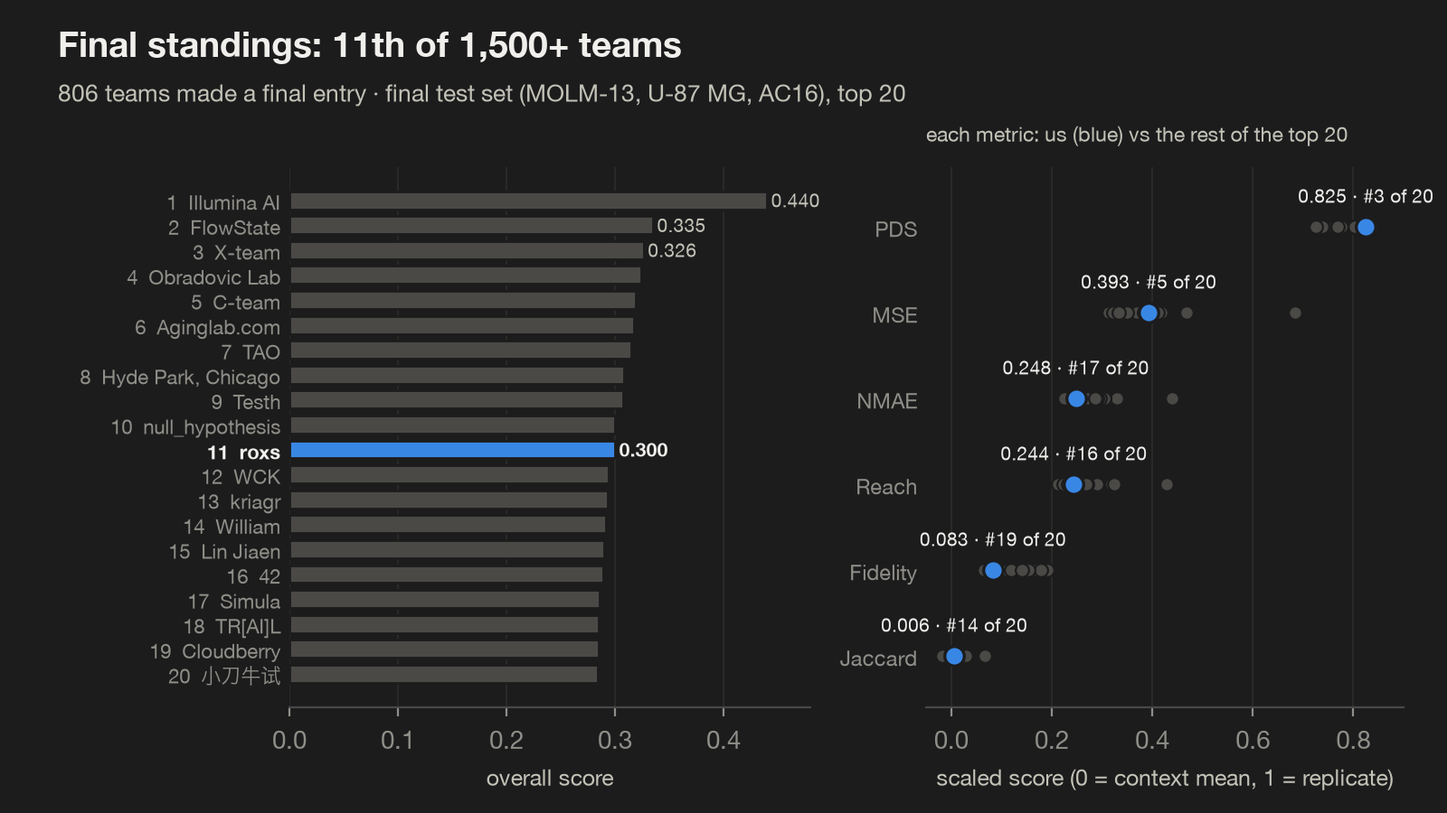
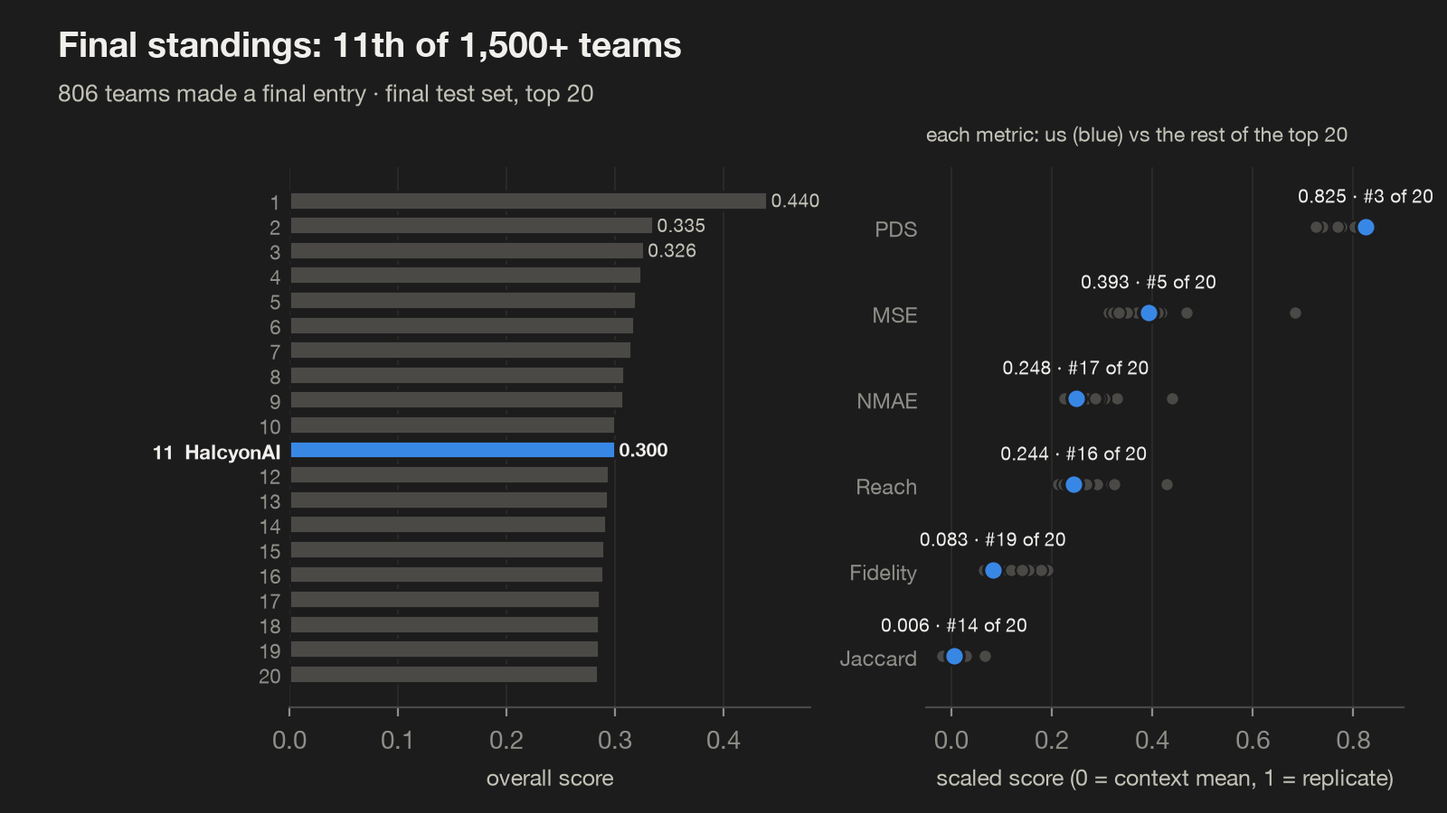
HalcyonAI: updates

Changed region(s): [[0.0625, 0.2489, 0.1875, 0.84], [0.3438, 0.0933, 0.625, 0.1244]]

diff --git a/_projects/virtual-cell-challenge.md b/_projects/virtual-cell-challenge.md
@@ -161,7 +161,7 @@ html[data-theme="dark"] .hx .hx-l{display:none}
 @media (prefers-reduced-motion:reduce){.hx-emb *{animation:none!important}.hx-emb .pulse,.hx-emb .ripple{display:none}}</style><defs><radialGradient id="hx-body" cx=".5" cy=".5" r=".5" fx=".36" fy=".3"><stop offset="0" stop-color="#ffffff"/><stop offset=".38" stop-color="#e4eefc"/><stop offset=".76" stop-color="#b6d1f6"/><stop offset=".93" stop-color="#88b4ee"/><stop offset="1" stop-color="#6098e2"/></radialGradient><radialGradient id="hx-rim" cx=".5" cy=".5" r=".5"><stop offset=".8" stop-color="#2a78d6" stop-opacity="0"/><stop offset=".95" stop-color="#2a78d6" stop-opacity=".22"/><stop offset="1" stop-color="#1b4f8f" stop-opacity=".5"/></radialGradient><radialGradient id="hx-nuc" cx=".5" cy=".5" r=".5" fx=".38" fy=".32"><stop offset="0" stop-color="#9a93f4"/><stop offset=".45" stop-color="#5d52d8"/><stop offset="1" stop-color="#2b2293"/></radialGradient><radialGradient id="hx-nucleolus" cx=".5" cy=".5" r=".5" fx=".4" fy=".35"><stop offset="0" stop-color="#4a3fc4"/><stop offset="1" stop-color="#170f5c"/></radialGradient><linearGradient id="hx-mito" x1="0" y1="0" x2="0" y2="1"><stop offset="0" stop-color="#ffc09e"/><stop offset=".55" stop-color="#f07c4c"/><stop offset="1" stop-color="#c9532a"/></linearGradient><radialGradient id="hx-donor" cx=".5" cy=".5" r=".5" fx=".34" fy=".3"><stop offset="0" stop-color="#e2fcf2"/><stop offset=".38" stop-color="#6fdcb4"/><stop offset=".8" stop-color="#1baf7a"/><stop offset="1" stop-color="#0c7550"/></radialGradient><radialGradient id="hx-halo" cx=".5" cy=".5" r=".5"><stop offset="0" stop-color="#1baf7a" stop-opacity=".5"/><stop offset="1" stop-color="#1baf7a" stop-opacity="0"/></radialGradient><radialGradient id="hx-aura" cx=".5" cy=".5" r=".5"><stop offset=".68" stop-color="#2a78d6" stop-opacity=".28"/><stop offset="1" stop-color="#2a78d6" stop-opacity="0"/></radialGradient><radialGradient id="hx-shadow" cx=".5" cy=".5" r=".5"><stop offset="0" stop-color="#0a1e3c" stop-opacity=".3"/><stop offset="1" stop-color="#0a1e3c" stop-opacity="0"/></radialGradient><radialGradient id="hx-spec" cx=".5" cy=".5" r=".5"><stop offset="0" stop-color="#fff" stop-opacity=".9"/><stop offset="1" stop-color="#fff" stop-opacity="0"/></radialGradient><clipPath id="hx-cellclip"><circle cx="220" cy="300" r="99"/></clipPath><clipPath id="hx-nucclip"><circle cx="236" cy="316" r="38"/></clipPath><linearGradient id="hx-s0" gradientUnits="userSpaceOnUse" x1="220" y1="200" x2="61.4" y2="115.7"><stop offset="0" stop-color="#1d5cb4"/><stop offset=".55" stop-color="#2a78d6"/><stop offset="1" stop-color="#1baf7a"/></linearGradient><linearGradient id="hx-s1" gradientUnits="userSpaceOnUse" x1="220" y1="200" x2="84.9" y2="86.3"><stop offset="0" stop-color="#1d5cb4"/><stop offset=".55" stop-color="#2a78d6"/><stop offset="1" stop-color="#1baf7a"/></linearGradient><linearGradient id="hx-s2" gradientUnits="userSpaceOnUse" x1="220" y1="200" x2="116.9" y2="62.5"><stop offset="0" stop-color="#1d5cb4"/><stop offset=".55" stop-color="#2a78d6"/><stop offset="1" stop-color="#1baf7a"/></linearGradient><linearGradient id="hx-s3" gradientUnits="userSpaceOnUse" x1="220" y1="200" x2="155.4" y2="45.8"><stop offset="0" stop-color="#1d5cb4"/><stop offset=".55" stop-color="#2a78d6"/><stop offset="1" stop-color="#1baf7a"/></linearGradient><linearGradient id="hx-s4" gradientUnits="userSpaceOnUse" x1="220" y1="200" x2="198" y2="37.1"><stop offset="0" stop-color="#1d5cb4"/><stop offset=".55" stop-color="#2a78d6"/><stop offset="1" stop-color="#1baf7a"/></linearGradient><linearGradient id="hx-s5" gradientUnits="userSpaceOnUse" x1="220" y1="200" x2="242" y2="37.1"><stop offset="0" stop-color="#1d5cb4"/><stop offset=".55" stop-color="#2a78d6"/><stop offset="1" stop-color="#1baf7a"/></linearGradient><linearGradient id="hx-s6" gradientUnits="userSpaceOnUse" x1="220" y1="200" x2="284.6" y2="45.8"><stop offset="0" stop-color="#1d5cb4"/><stop offset=".55" stop-color="#2a78d6"/><stop offset="1" stop-color="#1baf7a"/></linearGradient><linearGradient id="hx-s7" gradientUnits="userSpaceOnUse" x1="220" y1="200" x2="323.1" y2="62.5"><stop offset="0" stop-color="#1d5cb4"/><stop offset=".55" stop-color="#2a78d6"/><stop offset="1" stop-color="#1baf7a"/></linearGradient><linearGradient id="hx-s8" gradientUnits="userSpaceOnUse" x1="220" y1="200" x2="355.1" y2="86.3"><stop offset="0" stop-color="#1d5cb4"/><stop offset=".55" stop-color="#2a78d6"/><stop offset="1" stop-color="#1baf7a"/></linearGradient><linearGradient id="hx-s9" gradientUnits="userSpaceOnUse" x1="220" y1="200" x2="378.6" y2="115.7"><stop offset="0" stop-color="#1d5cb4"/><stop offset=".55" stop-color="#2a78d6"/><stop offset="1" stop-color="#1baf7a"/></linearGradient></defs><path class="s-fade" style="--d:0.59s" d="M220 200 C220 138 286.6 126.6 323.1 62.5" fill="none" stroke="url(#hx-s7)" stroke-width="2.5" stroke-linecap="round" stroke-dasharray="1 6" opacity=".45"/><path class="s-fade" style="--d:0.24s" d="M220 200 C220 138 153.4 126.6 116.9 62.5" fill="none" stroke="url(#hx-s2)" stroke-width="2.6" stroke-linecap="round" stroke-dasharray="1 6" opacity=".45"/><path class="s-draw" style="--d:0.73s" pathLength="100" d="M220 200 C220 138 322.4 155.9 378.6 115.7" fill="none" stroke="#2a78d6" stroke-opacity=".14" stroke-width="10.3" stroke-linecap="round"/><path class="s-draw" style="--d:0.73s" pathLength="100" d="M220 200 C220 138 322.4 155.9 378.6 115.7" fill="none" stroke="url(#hx-s9)" stroke-width="3.3" stroke-linecap="round"/><path class="s-draw" style="--d:0.73s" pathLength="100" d="M220 200 C220 138 322.4 155.9 378.6 115.7" fill="none" stroke="#fff" stroke-opacity=".38" stroke-width="0.9" stroke-linecap="round" transform="translate(-0.7 -0.7)"/><path class="pulse" style="--t:3.20s;--p:5.23s;--so:37" pathLength="100" d="M220 200 C220 138 322.4 155.9 378.6 115.7" fill="none" stroke="#bff5e1" stroke-opacity=".35" stroke-width="9.3" stroke-linecap="round"/><path class="pulse" style="--t:3.20s;--p:5.23s;--so:37" pathLength="100" d="M220 200 C220 138 322.4 155.9 378.6 115.7" fill="none" stroke="#fff" stroke-width="3.5" stroke-linecap="round"/><path class="s-draw" style="--d:0.10s" pathLength="100" d="M220 200 C220 138 117.6 155.9 61.4 115.7" fill="none" stroke="#2a78d6" stroke-opacity=".14" stroke-width="10.5" stroke-linecap="round"/><path class="s-draw" style="--d:0.10s" pathLength="100" d="M220 200 C220 138 117.6 155.9 61.4 115.7" fill="none" stroke="url(#hx-s0)" stroke-width="3.5" stroke-linecap="round"/><path class="s-draw" style="--d:0.10s" pathLength="100" d="M220 200 C220 138 117.6 155.9 61.4 115.7" fill="none" stroke="#fff" stroke-opacity=".38" stroke-width="1" stroke-linecap="round" transform="translate(-0.7 -0.7)"/><path class="pulse" style="--t:3.12s;--p:1.90s;--so:30" pathLength="100" d="M220 200 C220 138 117.6 155.9 61.4 115.7" fill="none" stroke="#bff5e1" stroke-opacity=".35" stroke-width="9.5" stroke-linecap="round"/><path class="pulse" style="--t:3.12s;--p:1.90s;--so:30" pathLength="100" d="M220 200 C220 138 117.6 155.9 61.4 115.7" fill="none" stroke="#fff" stroke-width="3.6" stroke-linecap="round"/><path class="s-draw" style="--d:0.52s" pathLength="100" d="M220 200 C220 138 261.7 117.4 284.6 45.8" fill="none" stroke="#2a78d6" stroke-opacity=".14" stroke-width="10.6" stroke-linecap="round"/><path class="s-draw" style="--d:0.52s" pathLength="100" d="M220 200 C220 138 261.7 117.4 284.6 45.8" fill="none" stroke="url(#hx-s6)" stroke-width="3.6" stroke-linecap="round"/><path class="s-draw" style="--d:0.52s" pathLength="100" d="M220 200 C220 138 261.7 117.4 284.6 45.8" fill="none" stroke="#fff" stroke-opacity=".38" stroke-width="1" stroke-linecap="round" transform="translate(-0.7 -0.7)"/><path class="pulse" style="--t:3.04s;--p:4.12s;--so:68" pathLength="100" d="M220 200 C220 138 261.7 117.4 284.6 45.8" fill="none" stroke="#bff5e1" stroke-opacity=".35" stroke-width="9.6" stroke-linecap="round"/><path class="pulse" style="--t:3.04s;--p:4.12s;--so:68" pathLength="100" d="M220 200 C220 138 261.7 117.4 284.6 45.8" fill="none" stroke="#fff" stroke-width="3.7" stroke-linecap="round"/><path class="s-draw" style="--d:0.38s" pathLength="100" d="M220 200 C220 138 205.8 112.6 198 37.1" fill="none" stroke="#2a78d6" stroke-opacity=".14" stroke-width="11" stroke-linecap="round"/><path class="s-draw" style="--d:0.38s" pathLength="100" d="M220 200 C220 138 205.8 112.6 198 37.1" fill="none" stroke="url(#hx-s4)" stroke-width="4" stroke-linecap="round"/><path class="s-draw" style="--d:0.38s" pathLength="100" d="M220 200 C220 138 205.8 112.6 198 37.1" fill="none" stroke="#fff" stroke-opacity=".38" stroke-width="1.1" stroke-linecap="round" transform="translate(-0.7 -0.7)"/><path class="pulse" style="--t:3.03s;--p:3.38s;--so:72" pathLength="100" d="M220 200 C220 138 205.8 112.6 198 37.1" fill="none" stroke="#bff5e1" stroke-opacity=".35" stroke-width="10" stroke-linecap="round"/><path class="pulse" style="--t:3.03s;--p:3.38s;--so:72" pathLength="100" d="M220 200 C220 138 205.8 112.6 198 37.1" fill="none" stroke="#fff" stroke-width="4" stroke-linecap="round"/><path class="s-draw" style="--d:0.66s" pathLength="100" d="M220 200 C220 138 307.3 139.7 355.1 86.3" fill="none" stroke="#2a78d6" stroke-opacity=".14" stroke-width="11.3" stroke-linecap="round"/><path class="s-draw" style="--d:0.66s" pathLength="100" d="M220 200 C220 138 307.3 139.7 355.1 86.3" fill="none" stroke="url(#hx-s8)" stroke-width="4.3" stroke-linecap="round"/><path class="s-draw" style="--d:0.66s" pathLength="100" d="M220 200 C220 138 307.3 139.7 355.1 86.3" fill="none" stroke="#fff" stroke-opacity=".38" stroke-width="1.2" stroke-linecap="round" transform="translate(-0.7 -0.7)"/><path class="pulse" style="--t:3.02s;--p:4.86s;--so:64" pathLength="100" d="M220 200 C220 138 307.3 139.7 355.1 86.3" fill="none" stroke="#bff5e1" stroke-opacity=".35" stroke-width="10.3" stroke-linecap="round"/><path class="pulse" style="--t:3.02s;--p:4.86s;--so:64" pathLength="100" d="M220 200 C220 138 307.3 139.7 355.1 86.3" fill="none" stroke="#fff" stroke-width="4.2" stroke-linecap="round"/><path class="s-draw" style="--d:0.17s" pathLength="100" d="M220 200 C220 138 132.7 139.7 84.9 86.3" fill="none" stroke="#2a78d6" stroke-opacity=".14" stroke-width="11.5" stroke-linecap="round"/><path class="s-draw" style="--d:0.17s" pathLength="100" d="M220 200 C220 138 132.7 139.7 84.9 86.3" fill="none" stroke="url(#hx-s1)" stroke-width="4.5" stroke-linecap="round"/><path class="s-draw" style="--d:0.17s" pathLength="100" d="M220 200 C220 138 132.7 139.7 84.9 86.3" fill="none" stroke="#fff" stroke-opacity=".38" stroke-width="1.3" stroke-linecap="round" transform="translate(-0.7 -0.7)"/><path class="pulse" style="--t:2.79s;--p:2.27s;--so:53" pathLength="100" d="M220 200 C220 138 132.7 139.7 84.9 86.3" fill="none" stroke="#bff5e1" stroke-opacity=".35" stroke-width="10.5" stroke-linecap="round"/><path class="pulse" style="--t:2.79s;--p:2.27s;--so:53" pathLength="100" d="M220 200 C220 138 132.7 139.7 84.9 86.3" fill="none" stroke="#fff" stroke-width="4.4" stroke-linecap="round"/><path class="s-draw" style="--d:0.45s" pathLength="100" d="M220 200 C220 138 234.2 112.6 242 37.1" fill="none" stroke="#2a78d6" stroke-opacity=".14" stroke-width="11.8" stroke-linecap="round"/><path class="s-draw" style="--d:0.45s" pathLength="100" d="M220 200 C220 138 234.2 112.6 242 37.1" fill="none" stroke="url(#hx-s5)" stroke-width="4.8" stroke-linecap="round"/><path class="s-draw" style="--d:0.45s" pathLength="100" d="M220 200 C220 138 234.2 112.6 242 37.1" fill="none" stroke="#fff" stroke-opacity=".38" stroke-width="1.4" stroke-linecap="round" transform="translate(-0.7 -0.7)"/><path class="pulse" style="--t:2.78s;--p:3.75s;--so:45" pathLength="100" d="M220 200 C220 138 234.2 112.6 242 37.1" fill="none" stroke="#bff5e1" stroke-opacity=".35" stroke-width="10.8" stroke-linecap="round"/><path class="pulse" style="--t:2.78s;--p:3.75s;--so:45" pathLength="100" d="M220 200 C220 138 234.2 112.6 242 37.1" fill="none" stroke="#fff" stroke-width="4.6" stroke-linecap="round"/><path class="s-draw" style="--d:0.31s" pathLength="100" d="M220 200 C220 138 178.3 117.4 155.4 45.8" fill="none" stroke="#2a78d6" stroke-opacity=".14" stroke-width="12" stroke-linecap="round"/><path class="s-draw" style="--d:0.31s" pathLength="100" d="M220 200 C220 138 178.3 117.4 155.4 45.8" fill="none" stroke="url(#hx-s3)" stroke-width="5" stroke-linecap="round"/><path class="s-draw" style="--d:0.31s" pathLength="100" d="M220 200 C220 138 178.3 117.4 155.4 45.8" fill="none" stroke="#fff" stroke-opacity=".38" stroke-width="1.4" stroke-linecap="round" transform="translate(-0.7 -0.7)"/><path class="pulse" style="--t:2.40s;--p:3.01s;--so:49" pathLength="100" d="M220 200 C220 138 178.3 117.4 155.4 45.8" fill="none" stroke="#bff5e1" stroke-opacity=".35" stroke-width="11" stroke-linecap="round"/><path class="pulse" style="--t:2.40s;--p:3.01s;--so:49" pathLength="100" d="M220 200 C220 138 178.3 117.4 155.4 45.8" fill="none" stroke="#fff" stroke-width="4.8" stroke-linecap="round"/><ellipse cx="220" cy="414" rx="92" ry="11" fill="url(#hx-shadow)"/><circle class="aura" cx="220" cy="300" r="134" fill="url(#hx-aura)"/><g class="cellin"><circle cx="220" cy="300" r="100" fill="url(#hx-body)"/><g clip-path="url(#hx-cellclip)"><g fill="#2a5fb0" opacity=".32"><circle cx="304.8" cy="293.1" r="1.2"/><circle cx="237.5" cy="236.9" r="1.2"/><circle cx="138.8" cy="260.7" r="0.9"/><circle cx="281.9" cy="338.7" r="0.8"/><circle cx="225.7" cy="211.9" r="1.0"/><circle cx="288.5" cy="303.8" r="1.3"/><circle cx="211.5" cy="255.6" r="1.6"/><circle cx="261.6" cy="263.1" r="1.0"/><circle cx="273.3" cy="280.1" r="1.5"/><circle cx="199.5" cy="214.6" r="1.3"/><circle cx="275.7" cy="254" r="0.9"/><circle cx="155.5" cy="311.9" r="1.2"/><circle cx="158.1" cy="346.4" r="0.9"/><circle cx="248.7" cy="223.3" r="1.1"/><circle cx="162.6" cy="254" r="1.6"/><circle cx="280.7" cy="260.8" r="1.5"/><circle cx="162.1" cy="278.9" r="1.5"/><circle cx="248.4" cy="220.1" r="1.6"/><circle cx="162.6" cy="251.7" r="1.4"/><circle cx="185.8" cy="259.3" r="0.9"/><circle cx="138" cy="316.5" r="1.0"/><circle cx="283.6" cy="249.9" r="1.0"/><circle cx="296.4" cy="320.7" r="1.1"/><circle cx="260.9" cy="251.4" r="1.5"/><circle cx="239.3" cy="258.7" r="0.9"/><circle cx="165.7" cy="311.9" r="1.5"/><circle cx="242.9" cy="256" r="1.5"/><circle cx="173.8" cy="289.1" r="0.8"/><circle cx="155.3" cy="273.8" r="1.3"/><circle cx="146.3" cy="272.4" r="1.5"/><circle cx="135.1" cy="309.2" r="1.4"/><circle cx="260.7" cy="358.7" r="1.5"/><circle cx="190.4" cy="337" r="1.5"/><circle cx="294.2" cy="283.4" r="1.4"/><circle cx="292.7" cy="314.6" r="1.3"/><circle cx="241.8" cy="216" r="1.3"/><circle cx="265.6" cy="277.7" r="1.4"/><circle cx="166" cy="339.7" r="1.2"/><circle cx="242.9" cy="384.1" r="1.0"/><circle cx="255.6" cy="240.5" r="0.9"/><circle cx="301.1" cy="332" r="1.2"/><circle cx="298.3" cy="265.4" r="1.3"/><circle cx="159.7" cy="286.2" r="1.4"/><circle cx="183.3" cy="227.2" r="1.2"/><circle cx="175.4" cy="233.8" r="1.2"/><circle cx="175" cy="242.8" r="1.1"/><circle cx="183.1" cy="367.8" r="1.6"/><circle cx="210.5" cy="214.9" r="0.8"/><circle cx="181.8" cy="358.3" r="0.8"/><circle cx="147.2" cy="291" r="0.8"/><circle cx="285.9" cy="247.5" r="0.9"/><circle cx="251" cy="361.5" r="1.6"/><circle cx="256.9" cy="239.9" r="1.2"/><circle cx="155.8" cy="254.5" r="1.1"/><circle cx="198.7" cy="358.4" r="1.5"/><circle cx="264.5" cy="226" r="1.2"/><circle cx="245.1" cy="382" r="1.1"/><circle cx="233.8" cy="375.9" r="1.4"/><circle cx="308.9" cy="292.7" r="1.3"/><circle cx="161" cy="344.4" r="1.5"/><circle cx="184.1" cy="382" r="1.5"/><circle cx="189.7" cy="216.6" r="1.2"/><circle cx="280" cy="234.6" r="1.1"/><circle cx="149.7" cy="303.3" r="1.4"/><circle cx="288" cy="337.9" r="1.6"/><circle cx="218.5" cy="389.8" r="0.9"/><circle cx="164.3" cy="305.3" r="1.0"/><circle cx="224.6" cy="368.7" r="1.2"/><circle cx="182.3" cy="276.2" r="1.5"/><circle cx="160.2" cy="307.2" r="1.2"/></g><line x1="140.3" y1="332.2" x2="299.7" y2="267.8" stroke="#1b4f8f" stroke-opacity=".28" stroke-width="1.4" stroke-dasharray="3 5" stroke-linecap="round"/><line x1="252.2" y1="379.7" x2="187.8" y2="220.3" stroke="#1b4f8f" stroke-opacity=".28" stroke-width="1.4" stroke-dasharray="3 5" stroke-linecap="round"/><g class="drift"><path d="M193.6 291.5 L190.5 293.6 L188.8 296.4 L188.7 299.9 L189.6 303.6 L190.1 306.9 L189.1 309.8 L187.1 312.8 L185.3 316 L185 319.3 L186.5 322.5 L188.9 325.4 L190.8 328.1 L191.2 331.2 L190.7 334.8 L190.5 338.5 L191.7 341.6 L194.5 343.7 L198 345.2 L200.8 346.9 L202.5 349.5 L203.6 352.9 L205.1 356.3 L207.6 358.5 L211.1 359.2 L214.8 359 L218.1 359.3 L220.8 360.9 L223.3 363.5 L226.1 365.8 L229.3 366.7 L232.7 365.7 L236 363.9 L239.1 362.7 L242.2 363 L245.6 364.2 L249.2 365.1 L252.4 364.4 L255 362 L257.2 358.9 L259.4 356.5" fill="none" stroke="#5b8fe0" stroke-opacity=".5" stroke-width="1.6" stroke-linecap="round"/><path d="M185.7 286.9 L184.2 290.4 L184.2 294.5 L184.5 298.5 L184 302.1 L182.1 305.3 L179.6 308.6 L178 312.2 L178.2 316 L180.1 319.7 L182.2 323.1 L183.2 326.5 L182.9 330.2 L182.1 334.3 L182.3 338.2 L184.2 341.5 L187.5 344 L190.9 346.2 L193.3 348.8 L194.6 352.3 L195.7 356.3 L197.7 359.7 L200.9 361.8 L204.9 362.5 L208.9 363 L212.2 364.3 L214.9 366.9 L217.7 370 L220.9 372.2 L224.7 372.6 L228.7 371.5 L232.5 370.1 L236 369.9 L239.6 371 L243.4 372.5 L247.3 373 L250.9 371.7 L254 368.9 L256.7 366.1 L259.8 364.3 L263.6 363.8" fill="none" stroke="#5b8fe0" stroke-opacity=".5" stroke-width="1.6" stroke-linecap="round"/><path d="M179.8 283.6 L179.2 288 L179.2 292.5 L178.4 296.5 L176.3 300 L173.5 303.6 L171.5 307.5 L171.3 311.8 L172.7 316 L174.7 320 L175.7 323.9 L175.4 328.1 L174.5 332.5 L174.4 336.9 L176.1 340.8 L179.3 344 L182.8 346.7 L185.4 349.8 L186.9 353.7 L188.1 358 L190 362 L193.2 364.7 L197.5 366.1 L201.9 367.1 L205.6 368.7 L208.6 371.5 L211.6 374.9 L215.1 377.6 L219.2 378.6 L223.7 377.9 L228 376.9 L232 376.7 L236 377.9 L240.2 379.7 L244.5 380.6 L248.6 379.6 L252.3 377 L255.7 374.1 L259.3 372.2 L263.4 371.6 L267.9 371.3" fill="none" stroke="#5b8fe0" stroke-opacity=".5" stroke-width="1.6" stroke-linecap="round"/><path d="M157 342 q15 -11 30 0" fill="none" stroke="#6250d6" stroke-opacity=".62" stroke-width="3" stroke-linecap="round" transform="rotate(-28 172 342)"/><path d="M159 348 q13 -11 26 0" fill="none" stroke="#6250d6" stroke-opacity=".62" stroke-width="3" stroke-linecap="round" transform="rotate(-28 172 342)"/><path d="M161 354 q11 -11 22 0" fill="none" stroke="#6250d6" stroke-opacity=".62" stroke-width="3" stroke-linecap="round" transform="rotate(-28 172 342)"/><path d="M163 360 q9 -11 18 0" fill="none" stroke="#6250d6" stroke-opacity=".62" stroke-width="3" stroke-linecap="round" transform="rotate(-28 172 342)"/><circle cx="196" cy="352" r="2.6" fill="#8d86f0" fill-opacity=".7"/><circle cx="154" cy="330" r="2.2" fill="#8d86f0" fill-opacity=".7"/><circle cx="190" cy="366" r="1.8" fill="#8d86f0" fill-opacity=".7"/><g transform="rotate(35 170 268)"><rect x="156" y="262" width="28" height="12" rx="6" fill="url(#hx-mito)" stroke="#b4461f" stroke-opacity=".55" stroke-width="1"/><path d="M160 268 l3.5 -3 l3.5 3 l3.5 -3 l3.5 3 l3.5 -3" fill="none" stroke="#fff" stroke-opacity=".7" stroke-width="1.1" stroke-linejoin="round"/></g><g transform="rotate(-30 278 256)"><rect x="265" y="250" width="26" height="12" rx="6" fill="url(#hx-mito)" stroke="#b4461f" stroke-opacity=".55" stroke-width="1"/><path d="M269 256 l3.2 -3 l3.2 3 l3.2 -3 l3.2 3 l3.2 -3" fill="none" stroke="#fff" stroke-opacity=".7" stroke-width="1.1" stroke-linejoin="round"/></g><g transform="rotate(8 206 378)"><rect x="194" y="372" width="24" height="12" rx="6" fill="url(#hx-mito)" stroke="#b4461f" stroke-opacity=".55" stroke-width="1"/><path d="M198 378 l3 -3 l3 3 l3 -3 l3 3 l3 -3" fill="none" stroke="#fff" stroke-opacity=".7" stroke-width="1.1" stroke-linejoin="round"/></g><g transform="rotate(-42 272 366)"><rect x="261" y="360" width="22" height="12" rx="6" fill="url(#hx-mito)" stroke="#b4461f" stroke-opacity=".55" stroke-width="1"/><path d="M265 366 l2.8 -3 l2.8 3 l2.8 -3 l2.8 3 l2.8 -3" fill="none" stroke="#fff" stroke-opacity=".7" stroke-width="1.1" stroke-linejoin="round"/></g><g transform="rotate(82 148 304)"><rect x="137" y="298" width="22" height="12" rx="6" fill="url(#hx-mito)" stroke="#b4461f" stroke-opacity=".55" stroke-width="1"/><path d="M141 304 l2.8 -3 l2.8 3 l2.8 -3 l2.8 3 l2.8 -3" fill="none" stroke="#fff" stroke-opacity=".7" stroke-width="1.1" stroke-linejoin="round"/></g><circle cx="262" cy="228" r="5" fill="#eef5ff" stroke="#4f86d8" stroke-opacity=".7" stroke-width="1.2"/><circle cx="184" cy="238" r="4" fill="#eef5ff" stroke="#4f86d8" stroke-opacity=".7" stroke-width="1.2"/><circle cx="300" cy="300" r="4.5" fill="#eef5ff" stroke="#4f86d8" stroke-opacity=".7" stroke-width="1.2"/><circle cx="160" cy="370" r="3.5" fill="#eef5ff" stroke="#4f86d8" stroke-opacity=".7" stroke-width="1.2"/><circle cx="246" cy="384" r="3.8" fill="#eef5ff" stroke="#4f86d8" stroke-opacity=".7" stroke-width="1.2"/><circle cx="296" cy="336" r="3" fill="#eef5ff" stroke="#4f86d8" stroke-opacity=".7" stroke-width="1.2"/><circle cx="236" cy="316" r="40" fill="#1b4f8f" fill-opacity=".12"/><circle cx="236" cy="316" r="38" fill="url(#hx-nuc)"/><g clip-path="url(#hx-nucclip)" fill="#1c1470" opacity=".28"><circle cx="231.3" cy="312.3" r="5.4"/><circle cx="213.3" cy="313.7" r="4.8"/><circle cx="212.7" cy="306.3" r="4.4"/><circle cx="260.2" cy="326.6" r="3.4"/><circle cx="269.4" cy="306.7" r="2.9"/><circle cx="223.3" cy="318.2" r="3.5"/><circle cx="249.7" cy="284.7" r="3.7"/><circle cx="229.5" cy="330.4" r="4.2"/><circle cx="247.6" cy="310.1" r="4.7"/><circle cx="251.7" cy="318.3" r="2.8"/><circle cx="228.1" cy="297.1" r="3.2"/><circle cx="227.5" cy="308" r="4.6"/><circle cx="254.5" cy="334" r="2.9"/><circle cx="244.5" cy="340.9" r="3.5"/><circle cx="219.5" cy="332.3" r="3.9"/><circle cx="244.8" cy="329.7" r="4.2"/><circle cx="219.1" cy="295.9" r="5.0"/><circle cx="210.5" cy="294.5" r="2.8"/><circle cx="234.1" cy="283.6" r="5.2"/><circle cx="227.9" cy="334.5" r="5.2"/><circle cx="243.2" cy="351.3" r="5.1"/><circle cx="247.8" cy="329.2" r="4.5"/><circle cx="235.3" cy="327.2" r="4.9"/><circle cx="207.8" cy="331.1" r="2.4"/><circle cx="211.6" cy="333.1" r="2.1"/><circle cx="245" cy="344.4" r="5.2"/></g><circle cx="245" cy="324" r="11" fill="url(#hx-nucleolus)"/><circle cx="225" cy="309" r="4.5" fill="url(#hx-nucleolus)" opacity=".8"/><circle cx="236" cy="316" r="38" fill="none" stroke="#231a86" stroke-width="2.2" stroke-dasharray="9 2.4"/><ellipse cx="223" cy="299" rx="13" ry="7" fill="url(#hx-spec)" opacity=".55" transform="rotate(-30 223 299)"/></g></g><circle cx="220" cy="300" r="100" fill="url(#hx-rim)"/><circle cx="220" cy="300" r="95.5" fill="none" stroke="#2a78d6" stroke-opacity=".42" stroke-width="1.2"/><circle cx="220" cy="300" r="100" fill="none" stroke="#2a78d6" stroke-width="2.6"/><g fill="#6250d6" fill-opacity=".8"><ellipse cx="189.9" cy="206.7" rx="2" ry="3.6" transform="rotate(-17.9 189.9 206.7)"/><ellipse cx="150.6" cy="230.8" rx="2" ry="3.6" transform="rotate(-45.1 150.6 230.8)"/><ellipse cx="127.6" cy="267.4" rx="2" ry="3.6" transform="rotate(-70.6 127.6 267.4)"/><ellipse cx="122" cy="300.1" rx="2" ry="3.6" transform="rotate(-90 122 300.1)"/><ellipse cx="131" cy="341" rx="2" ry="3.6" transform="rotate(-114.7 131 341)"/><ellipse cx="146.3" cy="364.6" rx="2" ry="3.6" transform="rotate(-131.3 146.3 364.6)"/><ellipse cx="174.5" cy="386.8" rx="2" ry="3.6" transform="rotate(-152.3 174.5 386.8)"/><ellipse cx="211.9" cy="397.7" rx="2" ry="3.6" transform="rotate(-175.3 211.9 397.7)"/><ellipse cx="248.6" cy="393.7" rx="2" ry="3.6" transform="rotate(-196.9 248.6 393.7)"/><ellipse cx="290" cy="368.5" rx="2" ry="3.6" transform="rotate(-225.6 290 368.5)"/><ellipse cx="310.7" cy="337.2" rx="2" ry="3.6" transform="rotate(-247.7 310.7 337.2)"/><ellipse cx="318" cy="298.6" rx="2" ry="3.6" transform="rotate(-270.8 318 298.6)"/><ellipse cx="313.1" cy="269.3" rx="2" ry="3.6" transform="rotate(-288.3 313.1 269.3)"/><ellipse cx="293.7" cy="235.4" rx="2" ry="3.6" transform="rotate(-311.2 293.7 235.4)"/><ellipse cx="263" cy="212" rx="2" ry="3.6" transform="rotate(-333.9 263 212)"/></g><ellipse cx="186" cy="254" rx="36" ry="20" fill="url(#hx-spec)" opacity=".75" transform="rotate(-32 186 254)"/></g><circle class="ripple" cx="220" cy="200" r="7" fill="none" stroke="#1baf7a" stroke-width="2"/><circle cx="220" cy="200" r="7.5" fill="#1b4f8f" stroke="#fff" stroke-width="2.4"/><circle cx="218" cy="198" r="2.2" fill="#fff" fill-opacity=".7"/><g class="donor" style="--d:0.10s"><circle class="halo" style="--h:0.0s" cx="61.4" cy="115.7" r="23.2" fill="url(#hx-halo)"/><circle cx="61.4" cy="115.7" r="11.9" fill="url(#hx-donor)" stroke="#0c7550" stroke-opacity=".6" stroke-width="1"/><circle cx="63.5" cy="117.3" r="4.8" fill="#0b6345" fill-opacity=".55"/><ellipse cx="57.6" cy="111.4" rx="4.3" ry="2.6" fill="#fff" fill-opacity=".75" transform="rotate(-35 57.6 111.4)"/></g><g class="donor" style="--d:0.17s"><circle class="halo" style="--h:0.3s" cx="84.9" cy="86.3" r="27.9" fill="url(#hx-halo)"/><circle cx="84.9" cy="86.3" r="14.3" fill="url(#hx-donor)" stroke="#0c7550" stroke-opacity=".6" stroke-width="1"/><circle cx="87.4" cy="88.3" r="5.7" fill="#0b6345" fill-opacity=".55"/><ellipse cx="80.3" cy="81.2" rx="5.1" ry="3.1" fill="#fff" fill-opacity=".75" transform="rotate(-35 80.3 81.2)"/></g><g class="donor" style="--d:0.24s" opacity=".45"><circle cx="116.9" cy="62.5" r="9.9" fill="url(#hx-donor)" stroke="#0c7550" stroke-opacity=".6" stroke-width="1"/><circle cx="118.6" cy="63.9" r="4" fill="#0b6345" fill-opacity=".55"/><ellipse cx="113.7" cy="58.9" rx="3.6" ry="2.2" fill="#fff" fill-opacity=".75" transform="rotate(-35 113.7 58.9)"/></g><g class="donor" style="--d:0.31s"><circle class="halo" style="--h:0.9s" cx="155.4" cy="45.8" r="30.2" fill="url(#hx-halo)"/><circle cx="155.4" cy="45.8" r="15.5" fill="url(#hx-donor)" stroke="#0c7550" stroke-opacity=".6" stroke-width="1"/><circle cx="158.2" cy="47.9" r="6.2" fill="#0b6345" fill-opacity=".55"/><ellipse cx="150.4" cy="40.2" rx="5.6" ry="3.4" fill="#fff" fill-opacity=".75" transform="rotate(-35 150.4 40.2)"/></g><g class="donor" style="--d:0.38s"><circle class="halo" style="--h:1.2s" cx="198" cy="37.1" r="25.5" fill="url(#hx-halo)"/><circle cx="198" cy="37.1" r="13.1" fill="url(#hx-donor)" stroke="#0c7550" stroke-opacity=".6" stroke-width="1"/><circle cx="200.4" cy="38.9" r="5.2" fill="#0b6345" fill-opacity=".55"/><ellipse cx="193.8" cy="32.4" rx="4.7" ry="2.9" fill="#fff" fill-opacity=".75" transform="rotate(-35 193.8 32.4)"/></g><g class="donor" style="--d:0.45s"><circle class="halo" style="--h:1.5s" cx="242" cy="37.1" r="29.4" fill="url(#hx-halo)"/><circle cx="242" cy="37.1" r="15.1" fill="url(#hx-donor)" stroke="#0c7550" stroke-opacity=".6" stroke-width="1"/><circle cx="244.7" cy="39.2" r="6" fill="#0b6345" fill-opacity=".55"/><ellipse cx="237.2" cy="31.7" rx="5.4" ry="3.3" fill="#fff" fill-opacity=".75" transform="rotate(-35 237.2 31.7)"/></g><g class="donor" style="--d:0.52s"><circle class="halo" style="--h:1.8s" cx="284.6" cy="45.8" r="24" fill="url(#hx-halo)"/><circle cx="284.6" cy="45.8" r="12.3" fill="url(#hx-donor)" stroke="#0c7550" stroke-opacity=".6" stroke-width="1"/><circle cx="286.8" cy="47.5" r="4.9" fill="#0b6345" fill-opacity=".55"/><ellipse cx="280.7" cy="41.3" rx="4.4" ry="2.7" fill="#fff" fill-opacity=".75" transform="rotate(-35 280.7 41.3)"/></g><g class="donor" style="--d:0.59s" opacity=".45"><circle cx="323.1" cy="62.5" r="9.5" fill="url(#hx-donor)" stroke="#0c7550" stroke-opacity=".6" stroke-width="1"/><circle cx="324.8" cy="63.8" r="3.8" fill="#0b6345" fill-opacity=".55"/><ellipse cx="320.1" cy="59.1" rx="3.4" ry="2.1" fill="#fff" fill-opacity=".75" transform="rotate(-35 320.1 59.1)"/></g><g class="donor" style="--d:0.66s"><circle class="halo" style="--h:2.4s" cx="355.1" cy="86.3" r="27.1" fill="url(#hx-halo)"/><circle cx="355.1" cy="86.3" r="13.9" fill="url(#hx-donor)" stroke="#0c7550" stroke-opacity=".6" stroke-width="1"/><circle cx="357.6" cy="88.3" r="5.6" fill="#0b6345" fill-opacity=".55"/><ellipse cx="350.7" cy="81.3" rx="5" ry="3.1" fill="#fff" fill-opacity=".75" transform="rotate(-35 350.7 81.3)"/></g><g class="donor" style="--d:0.73s"><circle class="halo" style="--h:2.7s" cx="378.6" cy="115.7" r="22.4" fill="url(#hx-halo)"/><circle cx="378.6" cy="115.7" r="11.5" fill="url(#hx-donor)" stroke="#0c7550" stroke-opacity=".6" stroke-width="1"/><circle cx="380.7" cy="117.3" r="4.6" fill="#0b6345" fill-opacity=".55"/><ellipse cx="374.9" cy="111.5" rx="4.1" ry="2.5" fill="#fff" fill-opacity=".75" transform="rotate(-35 374.9 111.5)"/></g></svg></div>
 <div class="hx-hero-txt"><p class="hx-eyebrow">Virtual Cell Challenge 2026</p><h1 class="hx-title">HalcyonAI</h1><p class="hx-tagline">Zero-shot prediction of CRISPRi knockdown responses in unseen cell lines</p><p class="hx-badge"><span class="ping" aria-hidden="true"></span>11th of 1,500+ teams</p></div></header>
 <nav class="hx-toc" aria-label="On this page"><a class="hx-chip" href="#task">The task</a><a class="hx-chip" href="#journey">How I got there</a><a class="hx-chip" href="#method">How it works</a><a class="hx-chip" href="#agents">Human + agents</a><a class="hx-chip" href="#lessons">What I learned</a><a class="hx-chip" href="#linkedin">LinkedIn</a></nav>
-<div class="hx-stats stagger"><div class="hx-stat" style="--c:var(--b)"><b data-from="1500" data-to="11" data-suf="ord">11th</b><span>of 1,500+ teams worldwide</span></div><div class="hx-stat" style="--c:var(--a)"><b data-to="0.300" data-dec="3">0.300</b><span>final score on three unseen cell lines</span></div><div class="hx-stat" style="--c:var(--v)"><b>Top 3</b><span>perturbation discrimination (PDS 0.825)</span></div><div class="hx-stat" style="--c:var(--o)"><b data-from="141" data-to="4" data-suf="ord">4th</b><span>validation rank, up from 141st in 9 days</span></div></div>
+<div class="hx-stats stagger"><div class="hx-stat" style="--c:var(--b)"><b data-from="1500" data-to="11" data-suf="ord">11th</b><span>of 1,500+ teams worldwide</span></div><div class="hx-stat" style="--c:var(--a)"><b data-to="0.300" data-dec="3">0.300</b><span>final score on three unseen cell lines</span></div><div class="hx-stat" style="--c:var(--v)"><b>Top 3</b><span>perturbation discrimination (PDS 0.825)</span></div><div class="hx-stat" style="--c:var(--o)"><b data-from="141" data-to="4" data-suf="ord">4th</b><span>best validation rank, up from 141st in 9 days</span></div></div>
 <p class="hx-lead rv">Here is how I placed <strong>11th out of 1,500+ teams</strong> around the world in Arc Institute's <a href="https://virtualcellchallenge.org/" target="_blank" rel="noopener">Virtual Cell Challenge 2026</a>!!!</p>
 <blockquote class="hx-quote rv">All without access to large-scale private datasets like the top teams in the challenge.</blockquote>
 <h2 class="hx-h rv" id="task"><span class="n">01</span>The task: a virtual AI model of a cell</h2>
@@ -170,11 +170,11 @@ html[data-theme="dark"] .hx .hx-l{display:none}
 <p class="rv">My final model, <strong>HalcyonAI</strong>, scored <strong>0.300</strong> and had a <strong>top-3 perturbation-discrimination score</strong> (PDS).</p>
 <figure class="hx-fig rv"><img class="hx-l" src="/assets/img/projects/virtual-cell-challenge/final-standings.png" alt="Final top-20 standings and per-metric scores" width="1600" height="900" loading="lazy" data-zoomable><img class="hx-d" src="/assets/img/projects/virtual-cell-challenge/final-standings-dark.png" alt="Final top-20 standings and per-metric scores" width="1600" height="900" loading="lazy" data-zoomable><figcaption><span class="k">Fig. 1</span>Final top 20, and my score on each metric against the rest of it.</figcaption></figure>
 <h2 class="hx-h rv" id="journey"><span class="n">02</span>How I got there</h2>
-<p class="rv">My first model scored terribly, right around the baseline. I tried many approaches early on, but building the model around statistical transfer, carrying measured knockdown responses over from other cell lines, showed the best signs, so I chose to continue down that path. In October I rebuilt the pipeline as HalcyonAI, starting from a recipe another team shared with me. From there it was one change at a time, each with a predicted score written down before upload. Between October 2 and October 11 it climbed from 141st to 4th on the validation leaderboard.</p>
-<div class="hx-tlw rv"><span class="hx-tl-fill" aria-hidden="true"></span><ol class="hx-tl"><li style="--c:var(--o)"><time>Sep 3</time><b>First upload: −0.069</b><span>Responses from one other cell line copied straight onto control cells.</span></li><li style="--c:var(--a)"><time>Sep 9 – Oct 2</time><b>A long plateau around 0.20</b><span>Many approaches tried; statistical transfer showed the best signs.</span></li><li style="--c:var(--b)"><time>Oct 3</time><b>HalcyonAI v1: +0.035 in one upload</b><span>Rebuilt around statistical transfer, starting from a recipe another team shared.</span></li><li style="--c:var(--b)"><time>Oct 11</time><b>4th on the validation board</b><span>Up from 141st nine days earlier, one change per upload.</span></li><li style="--c:var(--b)"><time>Oct 21</time><b>0.316, my last validation entry</b><span>Ten public donor screens, pooled with random-effects weights.</span></li><li style="--c:var(--v)"><time>Oct 22 – Nov 3</time><b>The blind final round</b><span>Three new cell lines, no feedback, and only the last upload counted.</span></li><li class="win" style="--c:var(--v)"><time>Nov 19</time><b>11th of 1,500+ teams</b><span>Final score 0.300, with a top-3 PDS.</span></li></ol></div>
+<p class="rv">My first model scored terribly, right around the baseline. I tried many approaches early on, but building the model around statistical transfer, carrying measured knockdown responses over from other cell lines, showed the best signs, so I chose to continue down that path. In October I rebuilt the pipeline as HalcyonAI. From there it was one change at a time, each with a predicted score written down before upload. Between October 2 and October 11 it climbed from 141st to 4th on the validation leaderboard.</p>
+<div class="hx-tlw rv"><span class="hx-tl-fill" aria-hidden="true"></span><ol class="hx-tl"><li style="--c:var(--o)"><time>Sep 3</time><b>First upload: −0.069</b><span>Responses from one other cell line copied straight onto control cells.</span></li><li style="--c:var(--a)"><time>Sep 9 – Oct 2</time><b>A long plateau around 0.20</b><span>Many approaches tried; statistical transfer showed the best signs.</span></li><li style="--c:var(--b)"><time>Oct 3</time><b>HalcyonAI v1: +0.035 in one upload</b><span>Rebuilt around statistical transfer.</span></li><li style="--c:var(--b)"><time>Oct 11</time><b>4th on the validation board</b><span>Up from 141st nine days earlier, one change per upload.</span></li><li style="--c:var(--b)"><time>Oct 21</time><b>0.316, my last validation entry</b><span>Ten public donor screens, pooled with random-effects weights.</span></li><li style="--c:var(--v)"><time>Oct 22 – Nov 3</time><b>The blind final round</b><span>Three new cell lines, no feedback, and only the last upload counted.</span></li><li class="win" style="--c:var(--v)"><time>Nov 19</time><b>11th of 1,500+ teams</b><span>Final score 0.300, with a top-3 PDS.</span></li></ol></div>
 <p class="rv">After that I kept iterating. Each upload tested one idea: a new public donor screen, a better way to choose which genes change, a smarter way to size each knockdown. Some ideas I had written off came back as wins, like a stem-cell screen I had dismissed in September that later pushed the score past 0.31. Others looked great on my own benchmarks and fell flat on the leaderboard, which taught me to measure how far each benchmark could be trusted.</p>
 <div class="hx-chart rv"><div id="vcc-journey" role="img" aria-label="Interactive chart of every scored validation upload"></div><p class="hx-cap"><span class="k">Fig. 2</span>Every scored validation upload (dots), the best score so far (line) and the final test result (diamond). Hover or tap a point to see what changed.</p></div>
-<p class="rv">The final round used three new cell lines (MOLM-13, U-87 MG and AC16), gave no feedback, and counted only the last upload. I identified two of the lines from their control cells alone, built blind benchmarks on real perturbed cells, and shipped only changes that held up on knockdowns they had never seen.</p>
+<p class="rv">The final round used three new cell lines, gave no feedback, and counted only the last upload. I identified two of the lines from their control cells alone, built blind benchmarks on real perturbed cells, and shipped only changes that held up on knockdowns they had never seen.</p>
 <figure class="hx-fig rv"><img class="hx-l" src="/assets/img/projects/virtual-cell-challenge/generalisation.png" alt="Validation versus final test scores for the top 50 teams, and per-metric changes" width="1600" height="900" loading="lazy" data-zoomable><img class="hx-d" src="/assets/img/projects/virtual-cell-challenge/generalisation-dark.png" alt="Validation versus final test scores for the top 50 teams, and per-metric changes" width="1600" height="900" loading="lazy" data-zoomable><figcaption><span class="k">Fig. 3</span>Validation to test: the drop was almost all bulk-profile error, while discrimination (PDS) held.</figcaption></figure>
 <h2 class="hx-h rv" id="method"><span class="n">03</span>How it works</h2>
 <p class="hx-kicker rv">Every input is public data.</p>
@@ -232,20 +232,20 @@ html[data-theme="dark"] .hx .hx-l{display:none}
   tlUpdate();
   var D = [
     ["2026-09-03", 0.1220, "Riptide", "early pipeline variant", 112, 0],
-    ["2026-09-03", -0.0691, "k562xfer", "first upload: K562 responses copied straight onto control cells", null, 0],
+    ["2026-09-03", -0.0691, "k562xfer", "first upload: one donor line's responses copied straight onto control cells", null, 0],
     ["2026-09-04", 0.1464, "EmberNautilus", "early pipeline variant", 59, 0],
     ["2026-09-05", 0.1099, "Gilded-Koi", "early pipeline variant", 156, 0],
     ["2026-09-05", 0.1245, "lantern", "four-source donor bank", 123, 0],
     ["2026-09-05", 0.1242, "marionette", "new cell writer: significant genes planned separately", 120, 0],
     ["2026-09-05", 0.1610, "mirage", "cell writer at full strength", 51, 0],
     ["2026-09-06", 0.1818, "prism", "new rule for choosing which genes change", 29, 0],
-    ["2026-09-06", 0.1329, "quartet", "adds HEK293T as a donor", 101, 0],
+    ["2026-09-06", 0.1329, "quartet", "adds another donor line", 101, 0],
     ["2026-09-07", 0.1983, "trellis", "donors weighted by support and reliability", 14, 0],
     ["2026-09-07", 0.1804, "zenith", "donor-weighting test", 40, 0],
     ["2026-09-09", 0.2008, "apex2", "safe gene calls, bolder magnitudes", 21, 0],
     ["2026-09-09", 0.1894, "keystone", "capped the number of changed genes (backfired)", 34, 0],
     ["2026-09-10", 0.2018, "zephyr", "small tuning step", 27, 0],
-    ["2026-09-11", 0.1285, "harbinger", "tried the then-leader's recipe; it needed data I didn't have", 179, 0],
+    ["2026-09-11", 0.1285, "harbinger", "tried an outside recipe; it needed data I didn't have", 179, 0],
     ["2026-09-15", 0.2018, "lodestar", "early pipeline variant", 33, 0],
     ["2026-09-15", 0.1998, "sextant", "early pipeline variant", 36, 0],
     ["2026-09-17", 0.2016, "astrolabe", "small tuning variant", 45, 1],
@@ -259,7 +259,7 @@ html[data-theme="dark"] .hx .hx-l{display:none}
     ["2026-10-02", 0.2120, "astrolabe8", "each knockdown sized by donor agreement", 124, 1],
     ["2026-10-03", 0.2468, "halcyon1", "HalcyonAI v1: rebuilt around statistical transfer", 36, 2],
     ["2026-10-03", 0.2517, "halcyon3", "number of changed genes tied to replicated evidence", 32, 2],
-    ["2026-10-04", 0.2642, "halcyon5", "better gene selection, updated K562 donor", 19, 2],
+    ["2026-10-04", 0.2642, "halcyon5", "better gene selection, updated genome-wide donor", 19, 2],
     ["2026-10-04", 0.2693, "halcyon6", "fold-change sizes tuned", 18, 2],
     ["2026-10-05", 0.2704, "halcyon8b", "three changes at once; missed, so one change per upload from here", 19, 2],
     ["2026-10-06", 0.2804, "halcyon10", "minimum number of changed genes", 16, 2],
@@ -274,16 +274,16 @@ html[data-theme="dark"] .hx .hx-l{display:none}
     ["2026-10-11", 0.3031, "halcyon27", "cap on changed genes lifted to 4,000 (rank 4)", 4, 2],
     ["2026-10-11", 0.3042, "halcyon28", "energy budget margin", 8, 2],
     ["2026-10-11", 0.3040, "halcyon31", "gene-call evidence re-weighted by donor", 9, 2],
-    ["2026-10-12", 0.3052, "halcyon34", "H1 stem-cell screen for calls and totals", 6, 2],
+    ["2026-10-12", 0.3052, "halcyon34", "stem-cell screen for calls and totals", 6, 2],
     ["2026-10-12", 0.3080, "halcyon36", "replicated depth and guide off-target pairs", 7, 2],
-    ["2026-10-13", 0.3105, "halcyon39", "hESC screen as an eighth donor: first score above 0.31", 9, 2],
-    ["2026-10-14", 0.3109, "halcyon40", "hESC screen also used to pick genes", 10, 2],
-    ["2026-10-14", 0.3119, "halcyon41", "hESC weighting", 9, 2],
-    ["2026-10-15", 0.3124, "halcyon42", "hESC weighting", 10, 2],
+    ["2026-10-13", 0.3105, "halcyon39", "second stem-cell screen as an eighth donor: first score above 0.31", 9, 2],
+    ["2026-10-14", 0.3109, "halcyon40", "that stem-cell screen also used to pick genes", 10, 2],
+    ["2026-10-14", 0.3119, "halcyon41", "stem-cell donor weighting", 9, 2],
+    ["2026-10-15", 0.3124, "halcyon42", "stem-cell donor weighting", 10, 2],
     ["2026-10-16", 0.3146, "halcyon43", "allocation key from donor agreement", 9, 2],
     ["2026-10-19", 0.3151, "halcyon44", "generic-response tuning", 12, 2],
     ["2026-10-20", 0.3151, "halcyon45", "principal-component cleaning", 10, 2],
-    ["2026-10-20", 0.3155, "halcyon46", "DLD-1 as a ninth donor", 13, 2],
+    ["2026-10-20", 0.3155, "halcyon46", "a ninth donor line", 13, 2],
     ["2026-10-21", 0.3164, "halcyon48", "random-effects pooling, PC twins, endothelial donor: last validation entry", 16, 2],
   ];
   var ERAS = ["early pipelines", "exploring", "HalcyonAI"];
@@ -334,7 +334,7 @@ html[data-theme="dark"] .hx .hx-l{display:none}
       name: "final test result", type: reduce ? "scatter" : "effectScatter", symbol: "diamond", symbolSize: 18, z: 3,
       rippleEffect: { scale: 2.6, brushType: "stroke", period: 3.5 }, itemStyle: { color: fin },
       label: { show: true, position: "left", distance: 12, formatter: "11th · 0.300", color: ink, fontFamily: disp, fontWeight: 600, fontSize: 13 },
-      data: [{ value: ["2026-11-03", 0.2999], info: ["2026-11-03", 0.2999, "final test set", "MOLM-13, U-87 MG and AC16: 11th of 1,500+ teams", 11, 3] }],
+      data: [{ value: ["2026-11-03", 0.2999], info: ["2026-11-03", 0.2999, "final test set", "three new cell lines: 11th of 1,500+ teams", 11, 3] }],
       markLine: { symbol: "none", silent: true, lineStyle: { type: "dashed", color: mut }, label: { formatter: "final round", position: "end", color: mut, fontFamily: mono, fontSize: 11 }, data: [{ xAxis: "2026-10-22" }] },
     });
     var narrow = el.clientWidth < 560;
